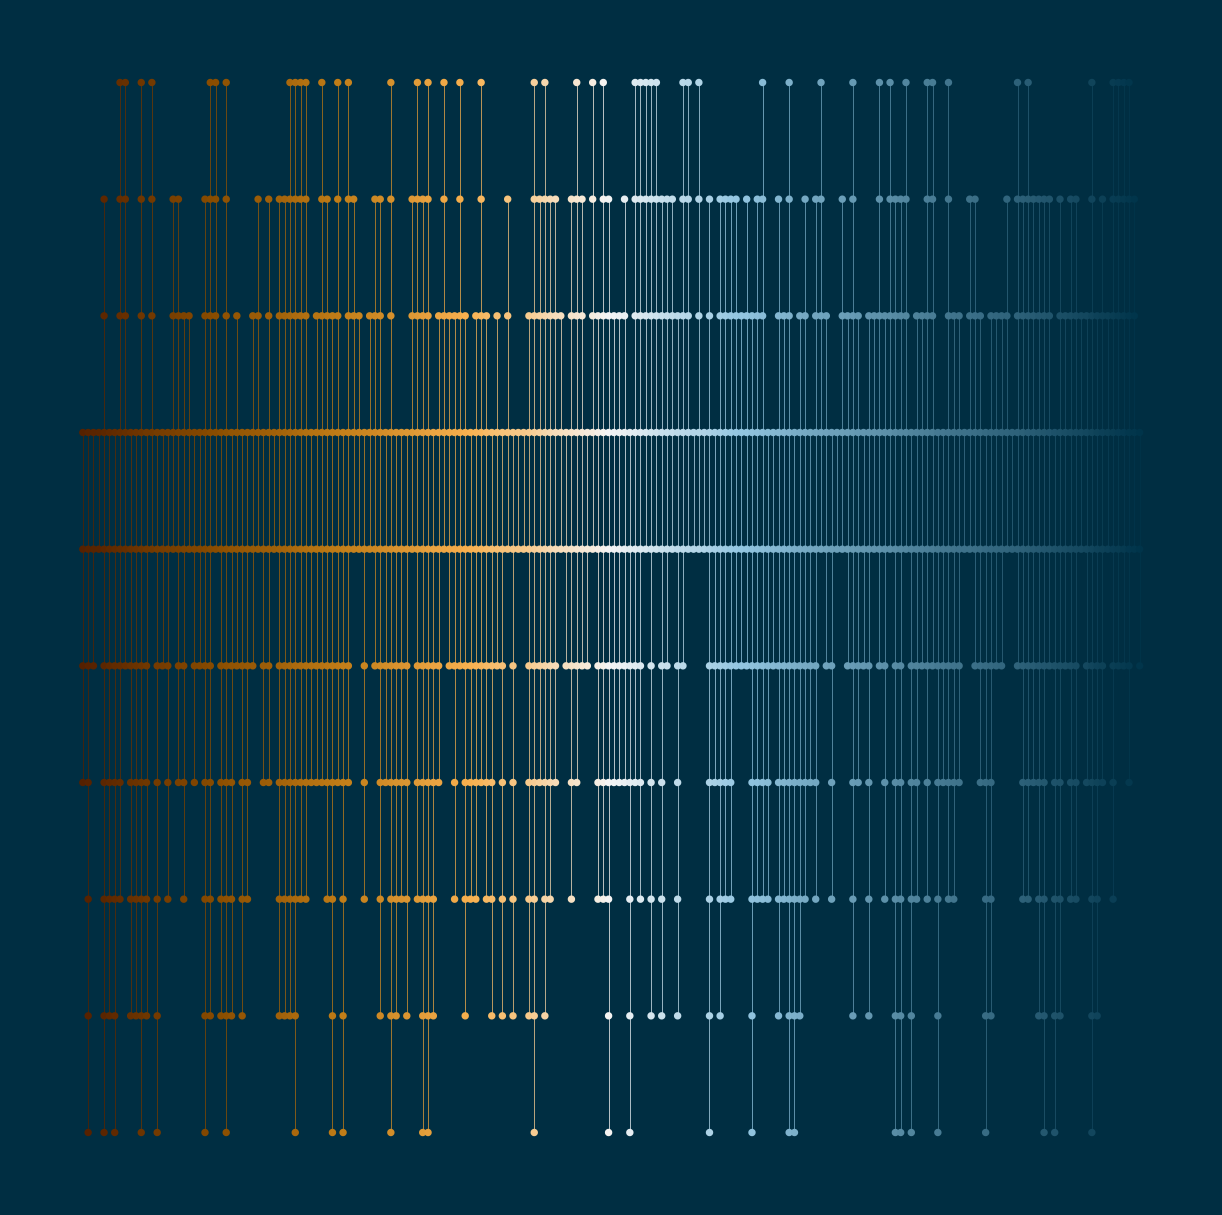
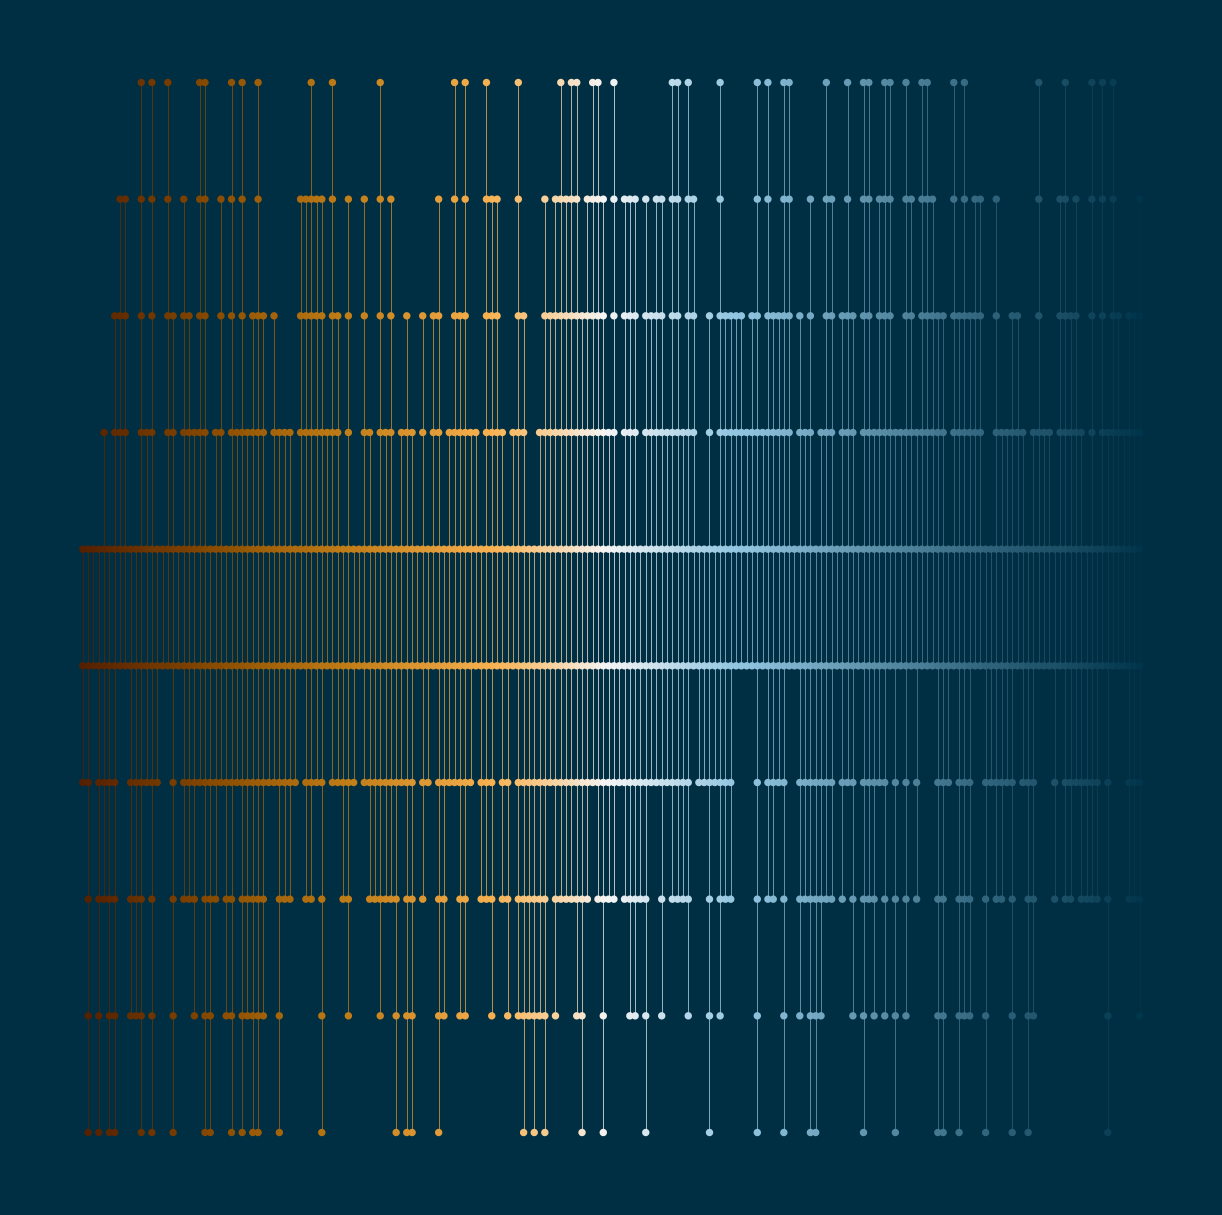
fix max_y bug

diff --git a/Python/nexus.py b/Python/nexus.py
@@ -7,11 +7,10 @@ def nexus(n_x, max_y, size, linewidth, bg_col, col_palette, s):
   """Generates plot of lines and points."""
   # generate data
   random.seed(s)
-  max_y = max_y + 1
   plot_data=pd.DataFrame({'x': [], 'y': [], 'grp': []})
   for i in range(n_x):
       n_y_start=random.sample(range(round(max_y/2)), k=1)
-      n_y_end=random.sample(range(round(max_y/2)+1, max_y), k=1)
+      n_y_end=random.sample(range(round(max_y/2)+1, max_y + 1), k=1)
       plot_data_i=pd.DataFrame({'x': [i]*len(range(n_y_start[0], n_y_end[0])),
       'y': range(n_y_start[0], n_y_end[0]),
       'grp': [i]*len(range(n_y_start[0], n_y_end[0]))})
